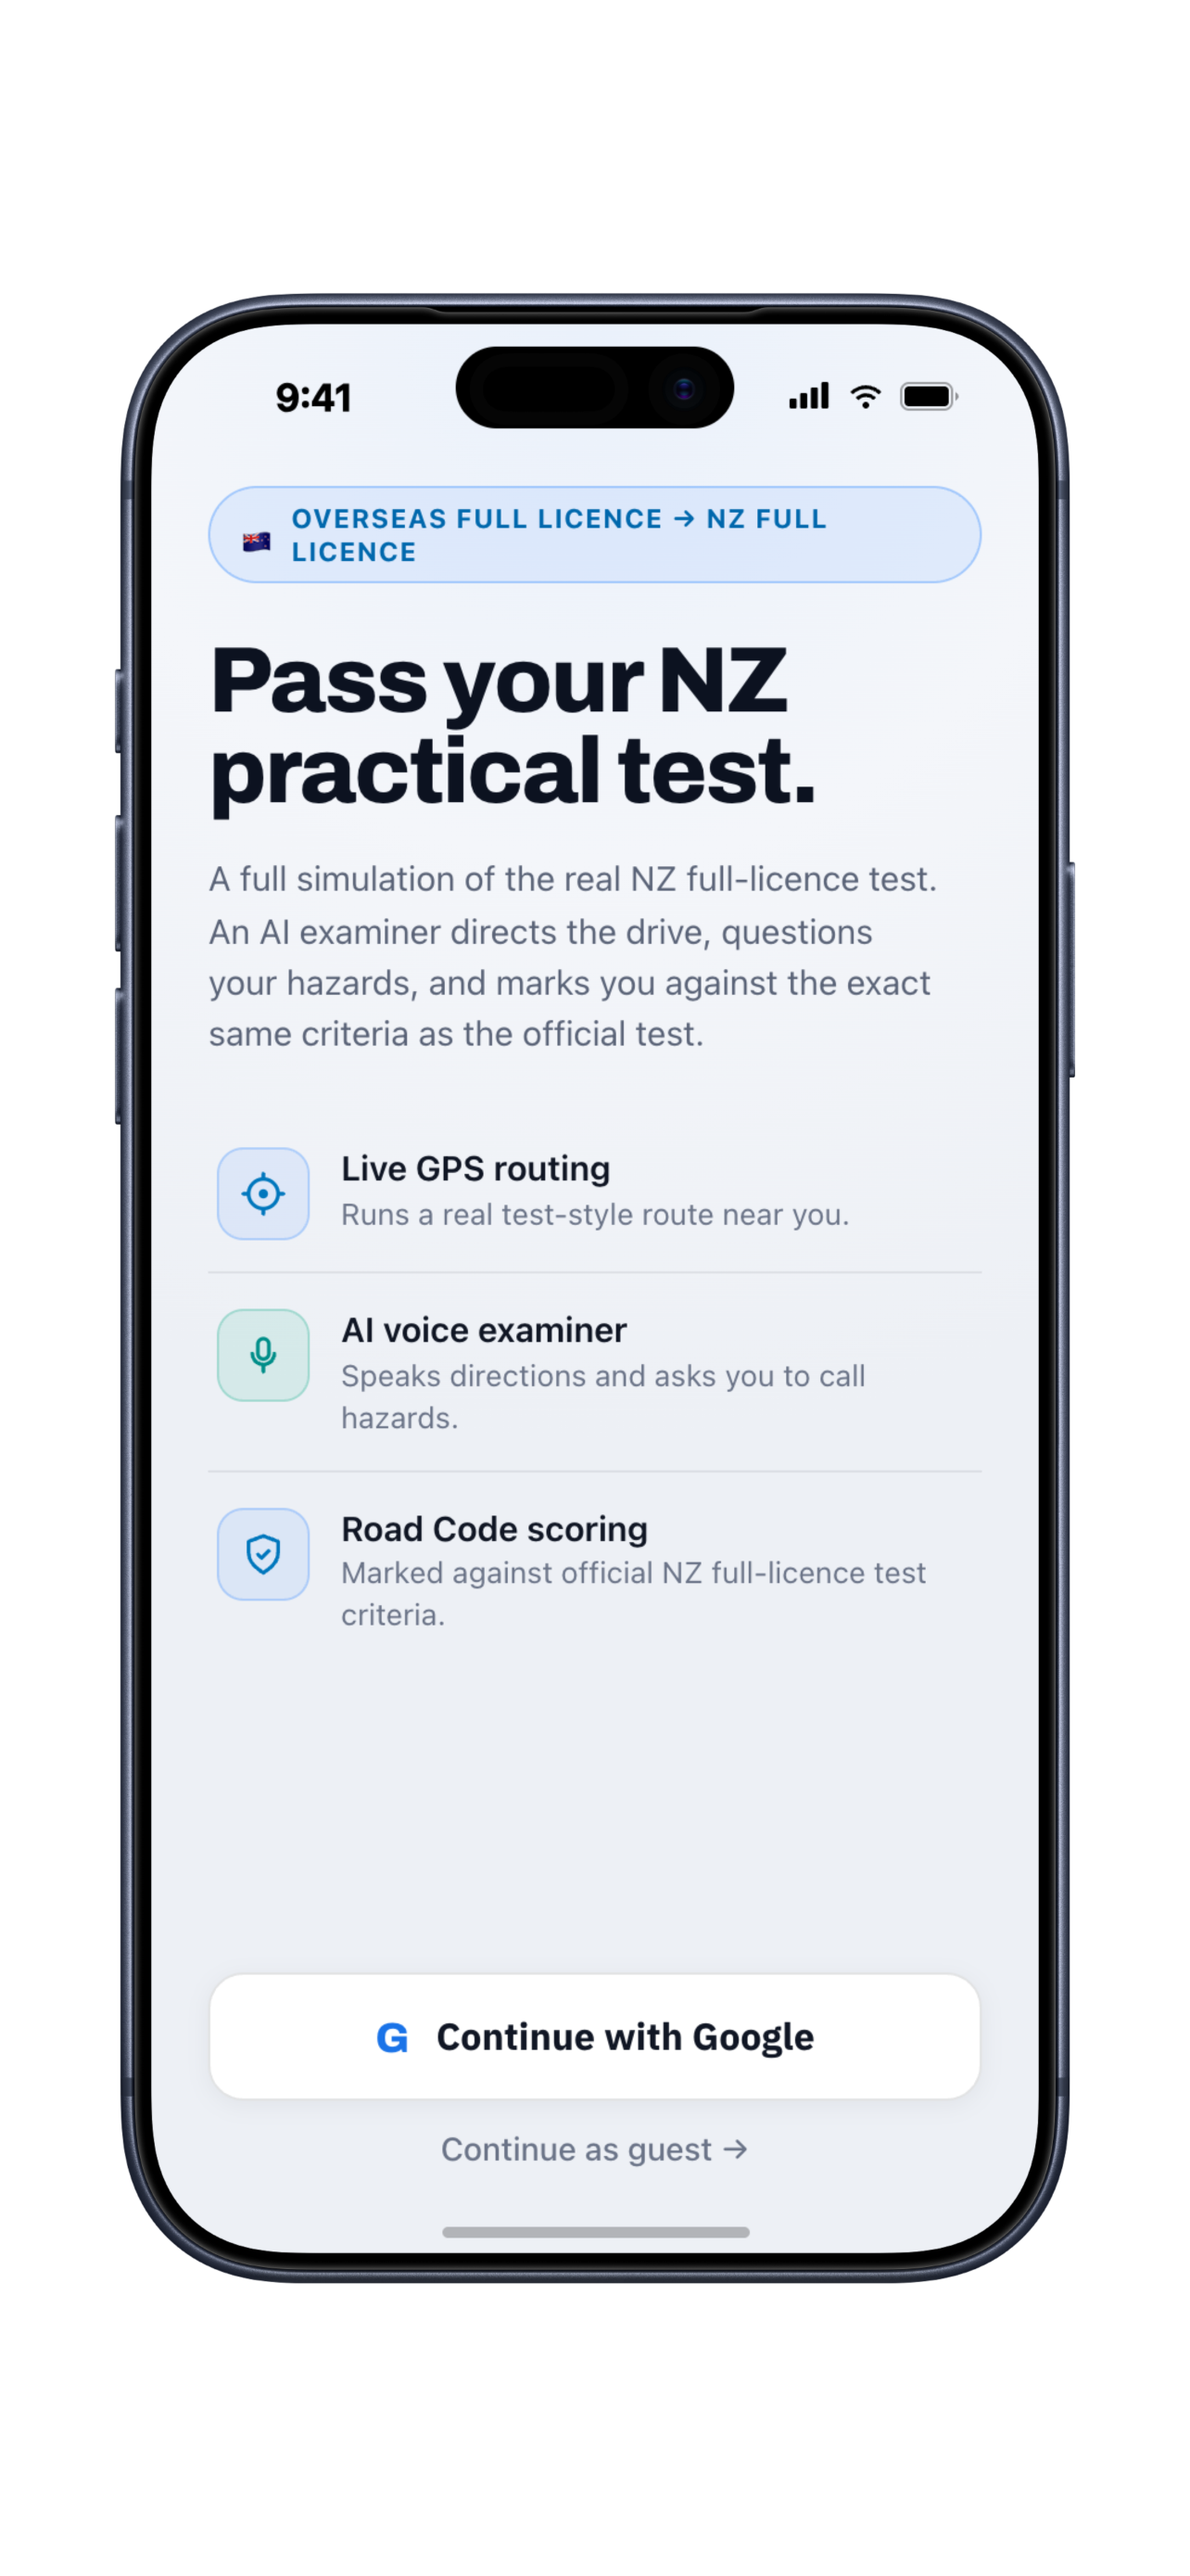
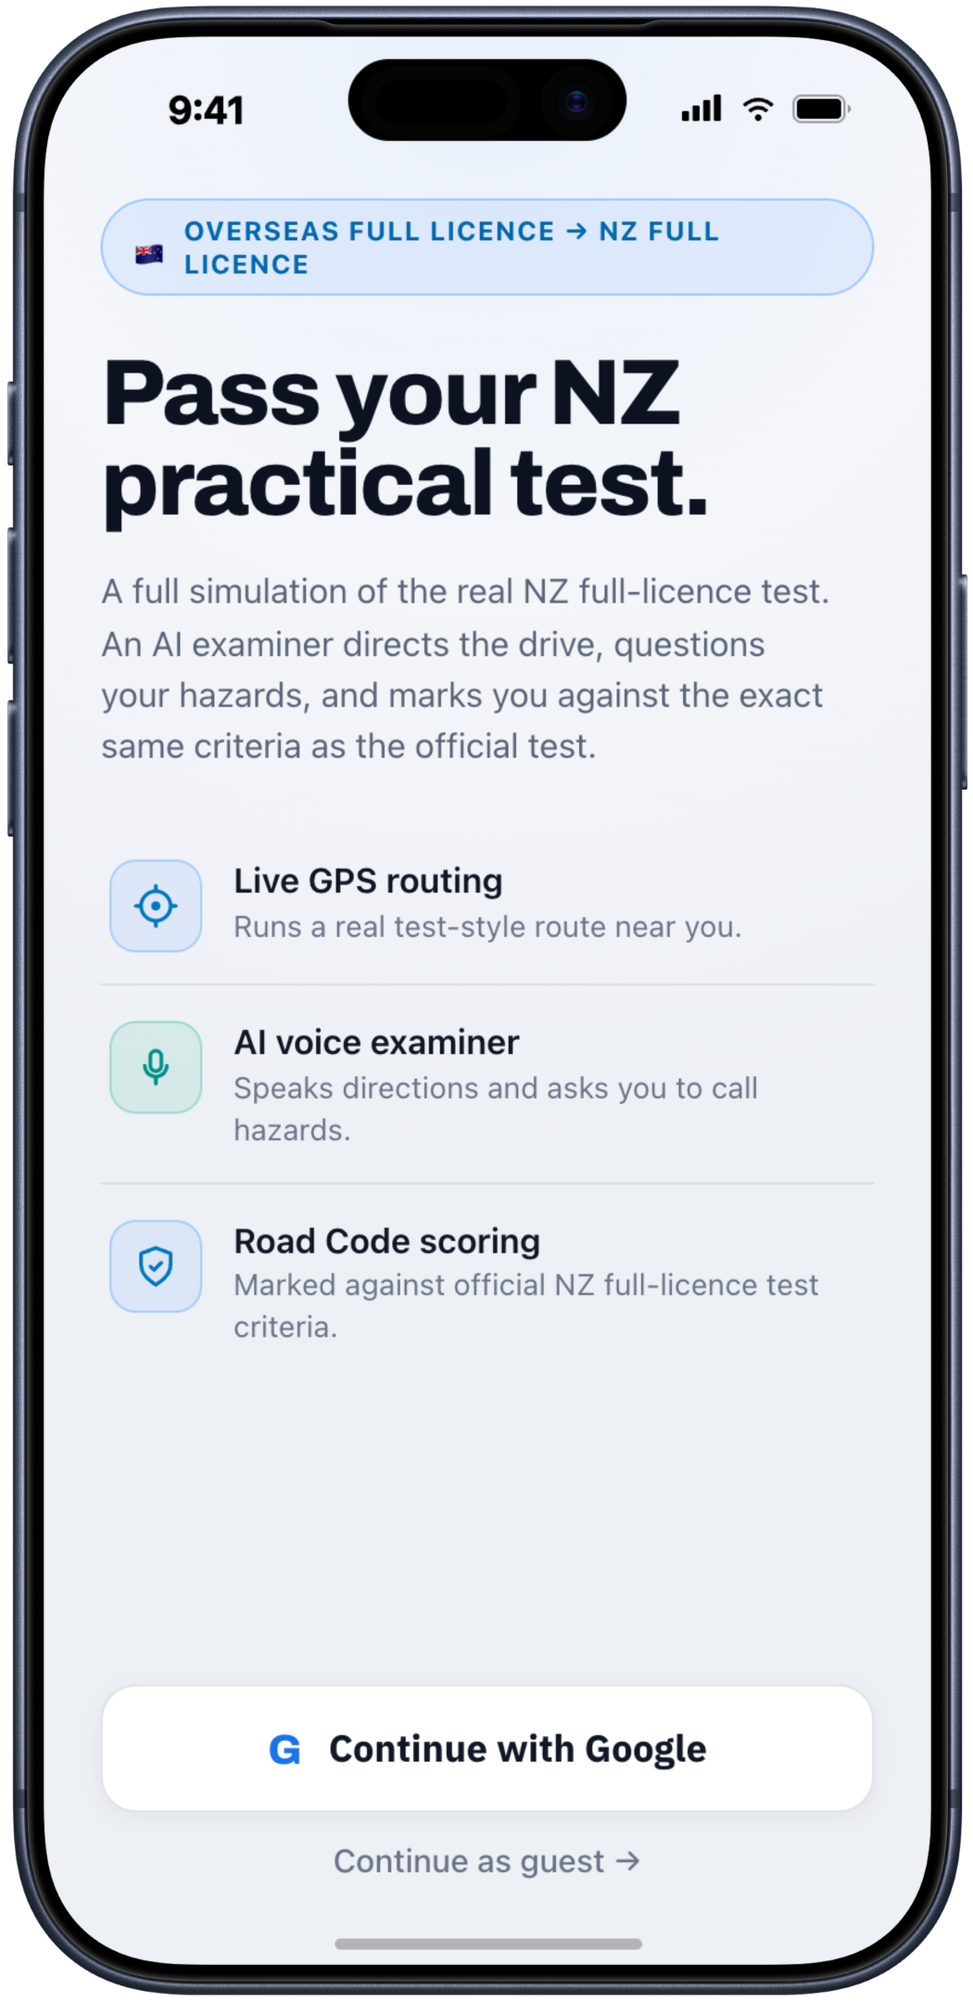
feat: fix imgrawmdx

Changed region(s): [[0.0, 0.0, 1.0, 1.0], [0.3048, 0.7751, 0.3352, 0.8061]]

diff --git a/components/content/MdxImageRow.tsx b/components/content/MdxImageRow.tsx
@@ -1,6 +1,7 @@
 import NextImage from "next/image";
 import type { ReactNode } from "react";
 import { imageSize } from "image-size";
+import { imageSlots } from "@/lib/image-slots";
 import path from "node:path";
 import { readFileSync } from "node:fs";
 
@@ -15,6 +16,7 @@ type MdxImageRowProps = {
 export function MdxImageRow({ src, alt, caption, side = "left", children }: Readonly<MdxImageRowProps>) {
   const filePath = path.join(process.cwd(), "public", src);
   const { width, height } = imageSize(readFileSync(filePath));
+  const { maxWidthClass, sizes } = imageSlots.body.screenshotMobile;
 
   return (
     <div
@@ -26,9 +28,10 @@ export function MdxImageRow({ src, alt, caption, side = "left", children }: Read
         <NextImage
           src={src}
           alt={alt}
+          sizes={sizes}
           width={width}
           height={height}
-          className="w-full max-w-xs h-auto mx-auto"
+          className={`w-full ${maxWidthClass} h-auto mx-auto rounded-xl`}
         />
         {caption && (
           <figcaption className="font-mono text-xs text-ink-faint text-center">
